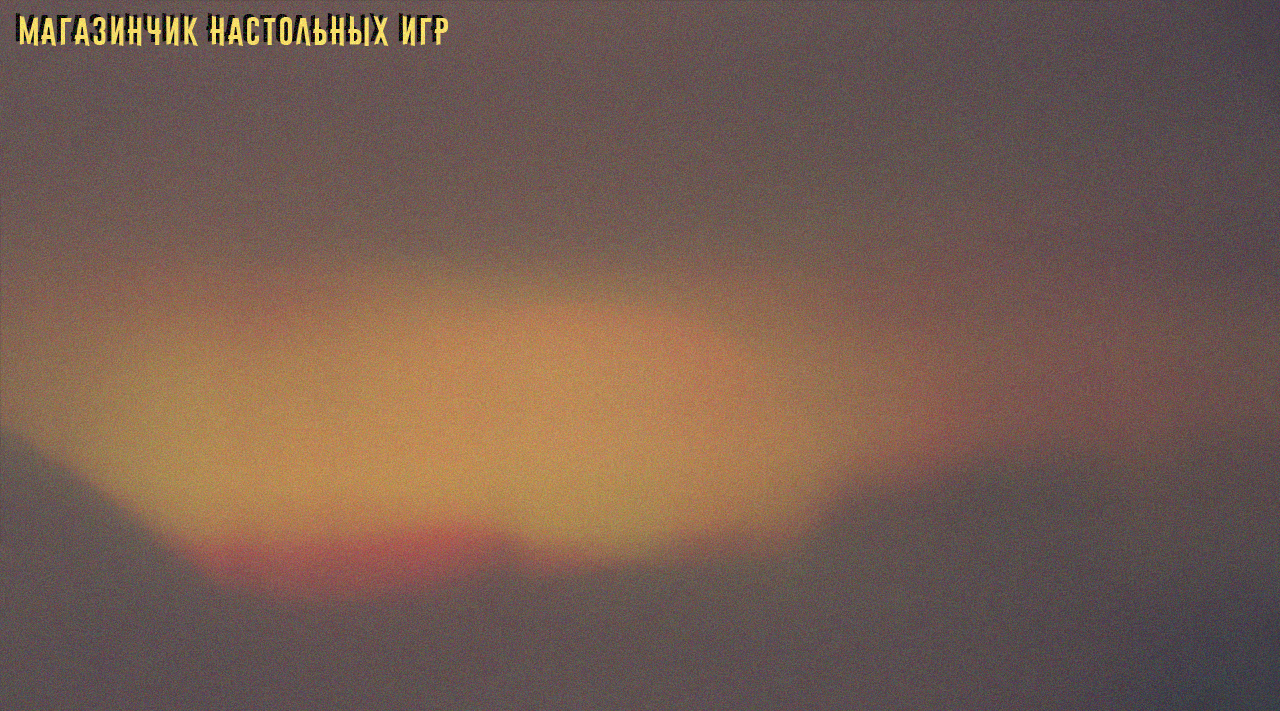
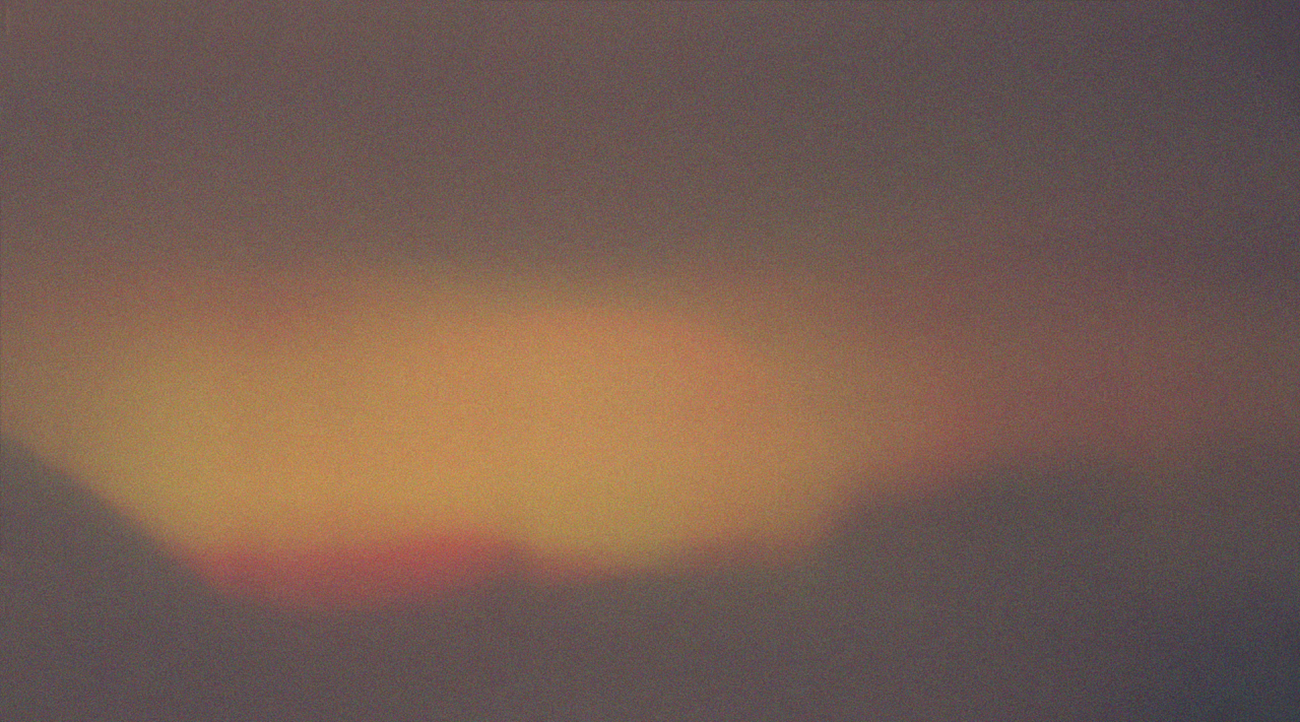
Update

Changed region(s): [[0.0, 0.0, 0.375, 0.0619]]

diff --git a/catalog/static/css/styles.css b/catalog/static/css/styles.css
@@ -1,9 +1,9 @@
 body {
-    background: url("../gfx/bg.png") no-repeat center top fixed;  
-    -moz-background-size: 100% auto; 
-    -webkit-background-size: 100% auto;
-    -o-background-size: 100% auto; 
-    background-size: 100% auto; 
+    background: url("../gfx/bg.png");  
+    background-position: center center;
+    background-attachment: fixed;
+    background-repeat: no-repeat; 
+    background-size: cover;
 }
 
 /* MAIN TEMPL */
@@ -16,10 +16,11 @@ body {
     background-size: cover;
 }
 .main-title {
+    padding-left: 13px;
+    overflow: hidden;
+    color: #fdcf65;
+    text-shadow: -5px -5px 0 black;
     right: 50px;
-    color: rgba(200, 50, 50, 1);
-        text-shadow: -1px 1px 0 black, 1px -1px 0 black, -2px 2px 0 black, 2px -2px 0 black,
-        -3px 3px 0 black, 3px -3px 0 black, -4px 4px 0 black, 4px -4px 0 black
 }
 .main-title h1 {
     font-size: 128px;    
@@ -83,17 +84,11 @@ body {
 /* BASE TEMPL */
 
 .base-title {
-    color: rgba(100, 100, 100, 1);
-    margin-left: 64px;
-    height: 64px;
-}
-.base-title h1, h2, h3 {
-    padding: 0px;
-    margin: 0px;
-}
-.base-title img {
-    float: left;
-    padding-right: 32px;
+    overflow: hidden;
+    color: #fdcf65;
+    text-shadow: -5px -5px 0 black;
+    padding-top: 13px;
+    padding-left: 13px;
 }
 
 /* GENERAL */
@@ -172,5 +167,21 @@ body {
   margin-right: -100%;
 }
 .catalog_games {
-  background-color: #fdcf65;
+    background-color: #fdcf65;    
+}
+.catalog-block ul{
+    text-align: center;
+}
+.catalog-block ul:after {
+    /* HERE IS MAGIC */
+    content: ' i i i i i i i i ';
+    word-spacing: 246px;
+    padding-left: 246px;
+    visibility: hidden;
+}
+.catalog-block ul li{
+    display : inline-block;
+    vertical-align: top;
+    text-align: center;
+    margin-top: 6px;
 }

diff --git a/catalog/templates/catalog/game_search.html b/catalog/templates/catalog/game_search.html
@@ -3,8 +3,6 @@
 {% block content %}
 
     <div class = "catalog-body">
-
-        <h1 class = "catalog_h1"> наши игры </h1>
         
         <div class ="catalog-search">
             <form action = "{% url 'game_search' %}" method = "GET">
@@ -53,7 +51,7 @@
     
     {% else %}
     
-      <p> Странно, но игр нет :( </p>
+      <p> Странно, но таких игр не нашлось </p>
       
     {% endif %}     
     

diff --git a/catalog/templates/base_generic.html b/catalog/templates/base_generic.html
@@ -28,7 +28,7 @@
         <div class = "base-header">
         
             <div class = "base-title">
-
+                <h1> МАГАЗИНЧИК НАСТОЛЬНЫХ ИГР </h1>
             </div>
       
             <div class = "auth_block rounded-bottom">

diff --git a/catalog/templates/main_generic.html b/catalog/templates/main_generic.html
@@ -24,6 +24,11 @@
     </head>
 
 <body class = "main-body">
+
+    <div class = "main-title">
+        <h1> МАГАЗИНЧИК </h1>
+        <h3> НАСТОЛЬНЫХ ИГР </h3>
+    </div>
   
     <div class = "auth_block rounded-bottom">
         <ul>

diff --git a/catalog/views.py b/catalog/views.py
@@ -9,15 +9,41 @@ from django import forms
 from django.contrib.auth.models import User
 from .models import Game, Author, Genre, Customer, Cart
 from .forms import BuyGame
+from .forms import SearchGame
 
 def index(request):
 
     games = Game.objects.all()
+    
 
     return render(
         request,
         'index.html',
-        context={'games':games,},
+        context = {'games' : games, },
+    )
+    
+def getGames(request):
+
+    games = Game.objects.all()
+    search_form = SearchGame()
+    
+    return render(
+        request,
+        'catalog/game_list.html',
+        context = {'game_list' : games, 
+        'form' : search_form, },
+    )
+    
+def searchGame(request):
+
+    games = Game.objects.all()        
+    search_form = SearchGame(request.GET)
+
+    return render(
+        request,
+        'catalog/game_search.html',
+        context = {'game_list' : games, 
+        'form' : search_form, },
     )
 
 def getGame(request, pk):

diff --git a/catalog/urls.py b/catalog/urls.py
@@ -7,12 +7,14 @@ urlpatterns = [
 
     path('', views.index, name='index-catalog'),
     
-    url(r'^games/$', views.GameListView.as_view(), name='games'),    
+    url(r'^games/$', views.getGames, name='games'),    
     url(r'^game/(?P<pk>\d+)$', views.getGame, name='game-detail'),          # WTF???
     
     url(r'^cart/$', views.getCart, name='cart'),
     url(r'^cart/item/del/(?P<pk>\d+)$', views.dellFromCart, name='cart_del_item'),
     url(r'^cart/item/add/(?P<pk>\d+)$', views.addToCart, name='cart_add_item'),
+    
+    url(r'^games/search/$', views.searchGame, name='game_search'),
     
     url(r'^author/create/$', views.AuthorCreate.as_view(), name='author_create'),
     url(r'^author/(?P<pk>\d+)/update/$', views.AuthorUpdate.as_view(), name='author_update'),

diff --git a/catalog/forms.py b/catalog/forms.py
@@ -4,3 +4,6 @@ from django.core.exceptions import ValidationError
 class BuyGame(forms.Form):
     pass
     
+class SearchGame(forms.Form):
+    srequest = forms.CharField()
+    
